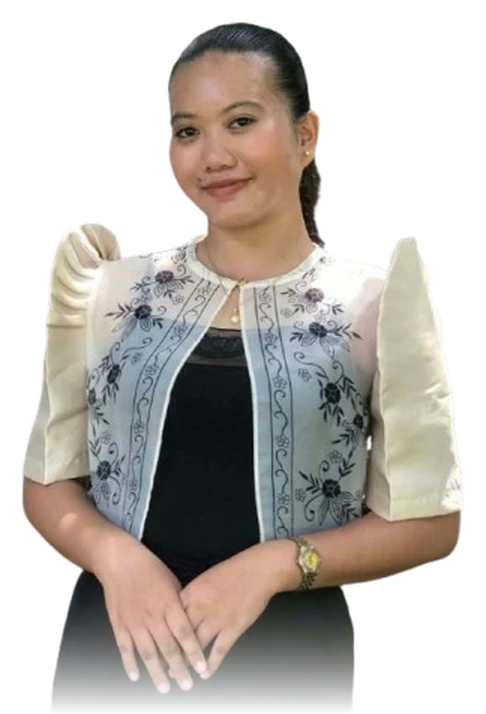
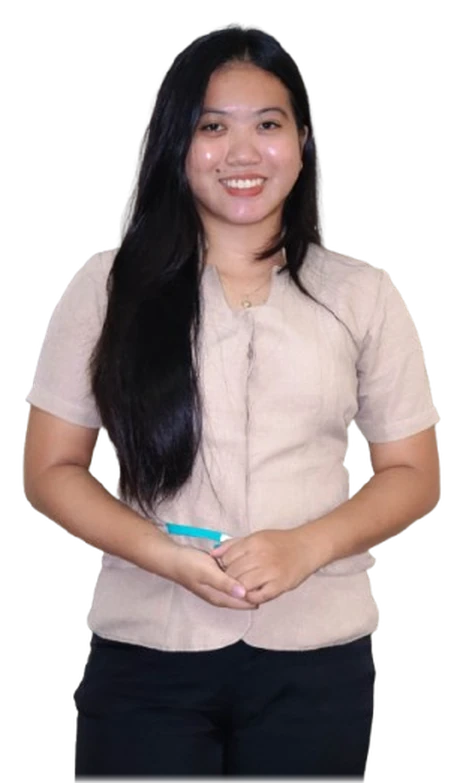
Add dot grid background

diff --git a/assets/css/style.css b/assets/css/style.css
@@ -54,7 +54,6 @@
   --radius-xl: 24px;
   --radius-pill: 999px;
   --section-pad: clamp(4rem, 8vw, 6.25rem);
-  --frame-gap: clamp(10px, 2vw, 26px);
 
   /* Motion */
   --ease-out: cubic-bezier(0.22, 0.61, 0.36, 1);
@@ -93,7 +92,6 @@
   --clr-on-panel: #ffffff;
   --clr-border: rgba(18, 18, 18, 0.12);
   --clr-border-strong: rgba(18, 18, 18, 0.26);
-  --shadow-frame: 0 32px 70px -46px rgba(18, 18, 18, 0.35);
   --shadow-md: 0 16px 36px -18px rgba(18, 18, 18, 0.25);
 }
 
@@ -125,7 +123,6 @@
   --clr-on-panel: #ffffff;
   --clr-border: rgba(245, 245, 245, 0.13);
   --clr-border-strong: rgba(245, 245, 245, 0.3);
-  --shadow-frame: 0 32px 70px -40px rgba(0, 0, 0, 0.6);
   --shadow-md: 0 16px 36px -18px rgba(0, 0, 0, 0.55);
 }
 
@@ -212,17 +209,65 @@ img {
 }
 
 /* ------------------------------------------------------------
-   03. Page frame — the whole page as one rounded card
+   03. Page shell — full-bleed, no outer card
 ------------------------------------------------------------ */
 .page-frame {
-  width: min(1400px, 100% - 2 * var(--frame-gap));
-  margin-inline: auto;
-  margin-block: var(--frame-gap) calc(var(--frame-gap) + 6px);
-  background: var(--clr-surface);
-  border: 1px solid var(--clr-border);
-  border-radius: var(--radius-xl);
+  width: 100%;
+  margin: 0;
+  background-color: var(--clr-surface);
+  background-image: var(--grid-dots);
+  background-size: var(--grid-dots-size);
+  border: 0;
+  border-radius: 0;
   overflow: clip;
-  box-shadow: var(--shadow-frame);
+}
+
+/* Dot grid — the page-wide technical backdrop.
+   The major tile is an exact multiple of the minor tile and both share the
+   same dot origin, so every 4th dot sits precisely on a minor dot. */
+:root {
+  --grid-cell: 24px;
+  --grid-cell-major: 96px;
+  --grid-dot-origin: 1.5px;
+  --grid-dot-r: 1px;
+  --grid-dot-r-major: 1.5px;
+  --grid-dot: rgba(107, 33, 168, 0.18);
+  --grid-dot-major: rgba(107, 33, 168, 0.34);
+  --grid-dot-inv: rgba(255, 255, 255, 0.11);
+  --grid-dot-inv-major: rgba(255, 255, 255, 0.2);
+
+  --grid-dots:
+    radial-gradient(circle at var(--grid-dot-origin) var(--grid-dot-origin),
+      var(--grid-dot-major) var(--grid-dot-r-major), transparent calc(var(--grid-dot-r-major) + 0.5px)),
+    radial-gradient(circle at var(--grid-dot-origin) var(--grid-dot-origin),
+      var(--grid-dot) var(--grid-dot-r), transparent calc(var(--grid-dot-r) + 0.4px));
+  --grid-dots-inv:
+    radial-gradient(circle at var(--grid-dot-origin) var(--grid-dot-origin),
+      var(--grid-dot-inv-major) var(--grid-dot-r-major), transparent calc(var(--grid-dot-r-major) + 0.5px)),
+    radial-gradient(circle at var(--grid-dot-origin) var(--grid-dot-origin),
+      var(--grid-dot-inv) var(--grid-dot-r), transparent calc(var(--grid-dot-r) + 0.4px));
+  --grid-dots-size:
+    var(--grid-cell-major) var(--grid-cell-major),
+    var(--grid-cell) var(--grid-cell);
+
+  /* Round dot discs that sit behind the portraits */
+  --portrait-dot-cell: 12px;
+  --portrait-dot-r: 1.3px;
+  --portrait-dot: rgba(107, 33, 168, 0.38);
+  --portrait-dot-inv: rgba(233, 222, 242, 0.5);
+}
+
+[data-theme="dark"] {
+  --grid-dot: rgba(255, 255, 255, 0.07);
+  --grid-dot-major: rgba(255, 255, 255, 0.13);
+}
+
+/* Same dot grid, inverted, for the dark and wine bands */
+.band-dark,
+.band-cta,
+.site-footer {
+  background-image: var(--grid-dots-inv);
+  background-size: var(--grid-dots-size);
 }
 
 /* Shared vertical rhythm so stacked sections never touch each other */
@@ -239,7 +284,7 @@ img {
 
 /* Dark full-bleed band (hero, page heroes, hot rows) */
 .band-dark {
-  background: var(--clr-band);
+  background-color: var(--clr-band);
   color: #ffffff;
 }
 
@@ -723,11 +768,39 @@ h2 {
 /* Portrait cutout — slightly tilted, like Finguard's cards */
 .hero-figure {
   position: relative;
+  isolation: isolate;
   display: flex;
   justify-content: center;
 }
 
+/* Round dot disc — the portrait sits inside a circular dot field that covers
+   the whole cutout */
+.hero-figure::after,
+.about-figure::after {
+  content: "";
+  position: absolute;
+  z-index: 0;
+  left: 50%;
+  top: 50%;
+  translate: -50% -50%;
+  height: 112%;
+  aspect-ratio: 1 / 1;
+  border-radius: 50%;
+  pointer-events: none;
+  background-image: radial-gradient(circle at 1.5px 1.5px,
+      currentColor var(--portrait-dot-r), transparent calc(var(--portrait-dot-r) + 0.3px));
+  background-size: var(--portrait-dot-cell) var(--portrait-dot-cell);
+  -webkit-mask-image: radial-gradient(circle at 50% 50%, #000 80%, transparent 100%);
+  mask-image: radial-gradient(circle at 50% 50%, #000 80%, transparent 100%);
+}
+
+.hero-figure::after {
+  color: var(--portrait-dot-inv);
+}
+
 .hero-figure .portrait {
+  position: relative;
+  z-index: 1;
   width: auto;
   height: clamp(21rem, 33vw, 28rem);
   max-width: 100%;
@@ -1169,7 +1242,7 @@ a.feature-row {
    10. CTA band — solid wine, sharp edges
 ------------------------------------------------------------ */
 .band-cta {
-  background: var(--clr-panel);
+  background-color: var(--clr-panel);
   color: var(--clr-on-panel);
   padding: clamp(3rem, 7vw, 5rem) 0;
   text-align: center;
@@ -1213,7 +1286,7 @@ a.feature-row {
 ------------------------------------------------------------ */
 .site-footer {
   position: relative;
-  background: var(--clr-band);
+  background-color: var(--clr-band);
   color: #ffffff;
   padding-bottom: 1.75rem;
   overflow: hidden;
@@ -1919,6 +1992,14 @@ a.feature-row {
   background: var(--clr-bg-soft);
 }
 
+/* Soft bands keep the dot texture instead of flattening to a solid block */
+.section-soft,
+.band-soft,
+.bg-soft {
+  background-image: var(--grid-dots);
+  background-size: var(--grid-dots-size);
+}
+
 /* Contact info cards */
 .info-card {
   display: flex;
@@ -1978,19 +2059,25 @@ a.feature-row {
 
 /* About-page portrait cutout */
 .about-figure {
-  /* soft ground shadow instead of drop-shadow (no boxy halo on white) */
-  background: radial-gradient(58% 14% at 50% 97%, rgba(107, 33, 168, 0.2), transparent 72%);
+  position: relative;
+  isolation: isolate;
+}
+
+.about-figure::after {
+  color: var(--portrait-dot);
+}
+
+[data-theme="dark"] .about-figure::after {
+  color: var(--portrait-dot-inv);
 }
 
 .about-figure .portrait {
+  position: relative;
+  z-index: 1;
   height: clamp(18rem, 26vw, 23rem);
   width: auto;
   object-position: 50% 50%;
   rotate: 2.5deg;
-}
-
-[data-theme="dark"] .about-figure {
-  background: none;
 }
 
 [data-theme="dark"] .about-figure .portrait {

diff --git a/pages/about.html b/pages/about.html
@@ -98,7 +98,7 @@
           <div class="col-lg-5">
             <figure class="hero-figure about-figure mx-auto mb-0" data-animate="scale-in">
               <img class="portrait" src="../assets/images/profile-cutout.webp"
-                alt="Portrait photo of Izrah Vendiola" width="486" height="714" loading="lazy">
+                alt="Portrait photo of Izrah Vendiola" width="463" height="783" loading="lazy">
             </figure>
           </div>
           <div class="col-lg-7">

diff --git a/index.html b/index.html
@@ -121,7 +121,7 @@
             <div class="col-lg-4">
               <figure class="hero-figure mb-0" data-animate="scale-in" data-delay="220">
                 <img class="portrait" src="assets/images/profile-cutout.webp"
-                  alt="Portrait photo of Izrah Vendiola" width="486" height="714">
+                  alt="Portrait photo of Izrah Vendiola" width="463" height="783">
               </figure>
             </div>
             <div class="col-lg-3">

diff --git a/assets/css/responsive.css b/assets/css/responsive.css
@@ -138,17 +138,15 @@
 
 /* ---------- Phones ---------- */
 @media (max-width: 575.98px) {
-  :root {
-    --frame-gap: 10px;
-  }
-
-  .page-frame {
-    border-radius: var(--radius-lg);
-  }
-
   .hero-figure .portrait {
     height: min(21rem, 88vw);
     width: auto;
+  }
+
+  /* Keep the round dot disc inside the frame on phones */
+  .hero-figure::after,
+  .about-figure::after {
+    height: 100%;
   }
 
   .hero-socials .social-btn {

diff --git a/README.md b/README.md
@@ -16,14 +16,20 @@ no frameworks, no build step, no jQuery.
 - **Page transitions** — cross-document View Transitions where supported, quick fade-out
   fallback otherwise.
 - **Creative details** — a brutalist-editorial design system adapted from the
-  Finguard reference: the whole page as one rounded card on the background, a
+  Finguard reference: full-bleed full-width layout, a
   consistent solid dark header bar, alternating dark/light full-bleed bands, huge
   condensed uppercase display type (Anton × DM Sans × JetBrains Mono), numbered
   feature rows with an overlapping "Currently" card, a tilted portrait cutout,
   a numbered steps rail, flat sparkle accents, static project image tiles and a
-  purple CTA/footer band with giant brand text. Izrah's palette throughout:
+  wine CTA band and dark footer with giant brand text. Izrah's palette throughout:
   deep wine `#5B1B32` for the CTA band, deep purple `#6B21A8` / amber `#F4C66A`
   accents on black & white — flat colors only, no gradients, no glassmorphism.
+- **Blueprint dot grid** — a 24px dot field with larger 96px major dots spans the
+  full page, tinted purple on light surfaces and inverted to white on the dark
+  header, wine CTA and footer bands. Tokens: `--grid-cell`, `--grid-dot*`.
+- **Portrait dot disc** — a round disc of denser dots covers each cutout (purple on
+  light, lavender on dark) and fades at its rim, so the subject sits inside its own
+  dot field.
 - **Working interactions** — mobile navigation, project category filtering, project
   detail modals, contact form validation with toast feedback, copy-to-clipboard email
   chip, animated theme toggle, back-to-top button.
@@ -52,7 +58,6 @@ personal-websites/
 │   └── images/
 │       ├── favicon.svg
 │       ├── profile-cutout.webp # Portrait cutout (transparent background)
-│       ├── profile.webp       # Original portrait (kept as source)
 │       └── projects/          # project-1.svg … project-6.svg placeholders
 │
 └── README.md
@@ -78,7 +83,7 @@ No build step required. Either:
 | Colors (deep wine band, purple / amber accents), radii, motion | `assets/css/style.css` → *Design tokens* section (`:root` / `[data-theme="dark"]`) |
 | Fonts | The Google Fonts `<link>` in each page's `<head>` + the `--font-*` variables |
 | Theme storage key | `assets/js/main.js` → `THEME_KEY` |
-| Portrait cutout | Replace `assets/images/profile-cutout.webp` with your own transparent PNG/WebP (the layout scales it by height and drops the shadow automatically) |
+| Portrait cutout | Replace `assets/images/profile-cutout.webp` with your own transparent PNG/WebP (the layout scales it by height and drops the shadow automatically). If you swap in a new background-removed PNG, trim it to the alpha bounding box, then update the `width`/`height` attributes on the portrait `<img>` in `index.html` and `pages/about.html` |
 | Project thumbnails | Replace files in `assets/images/projects/` |
 | Social links | Search each page for `github.com` / `linkedin.com` / `instagram.com` and point them at real profiles |
 | Email address | Replace `hello@izrahvendiola.com` everywhere (it's a placeholder) |
